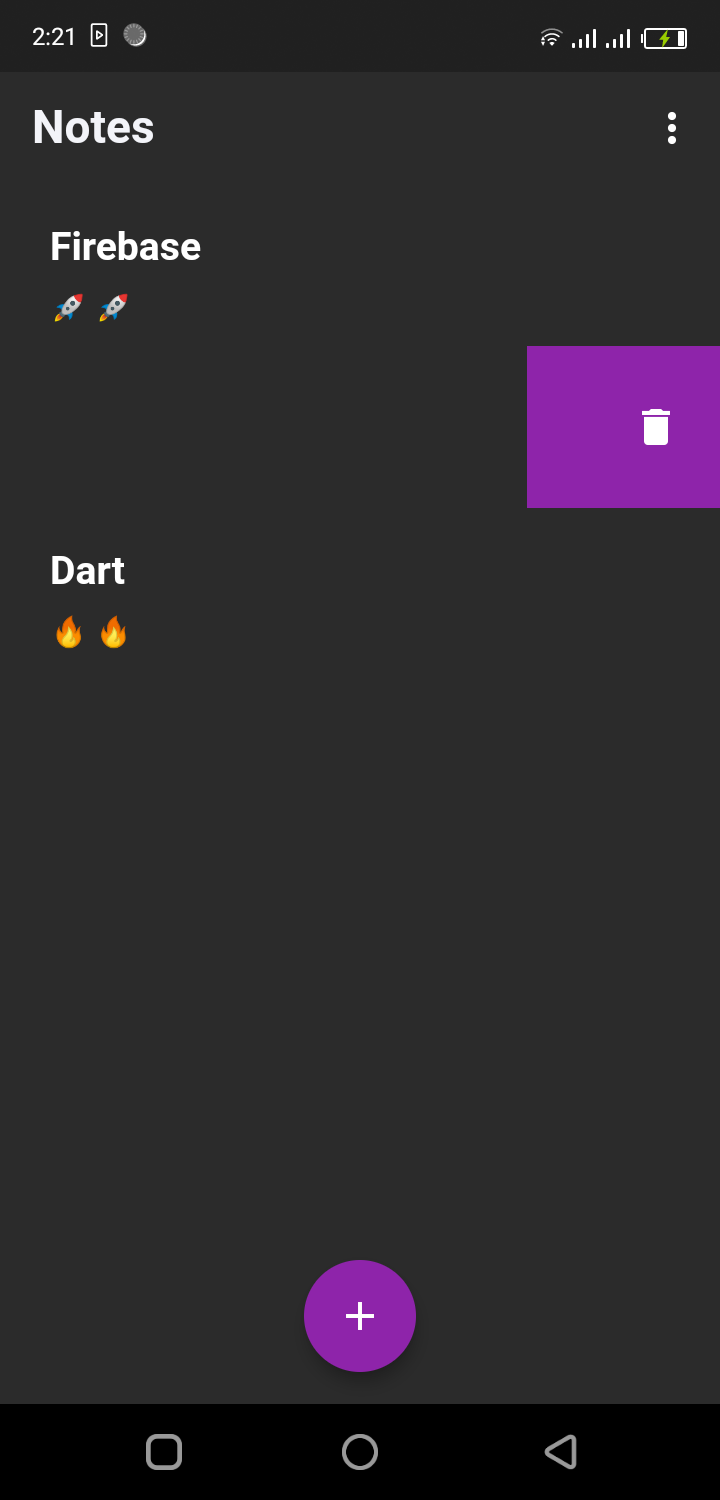
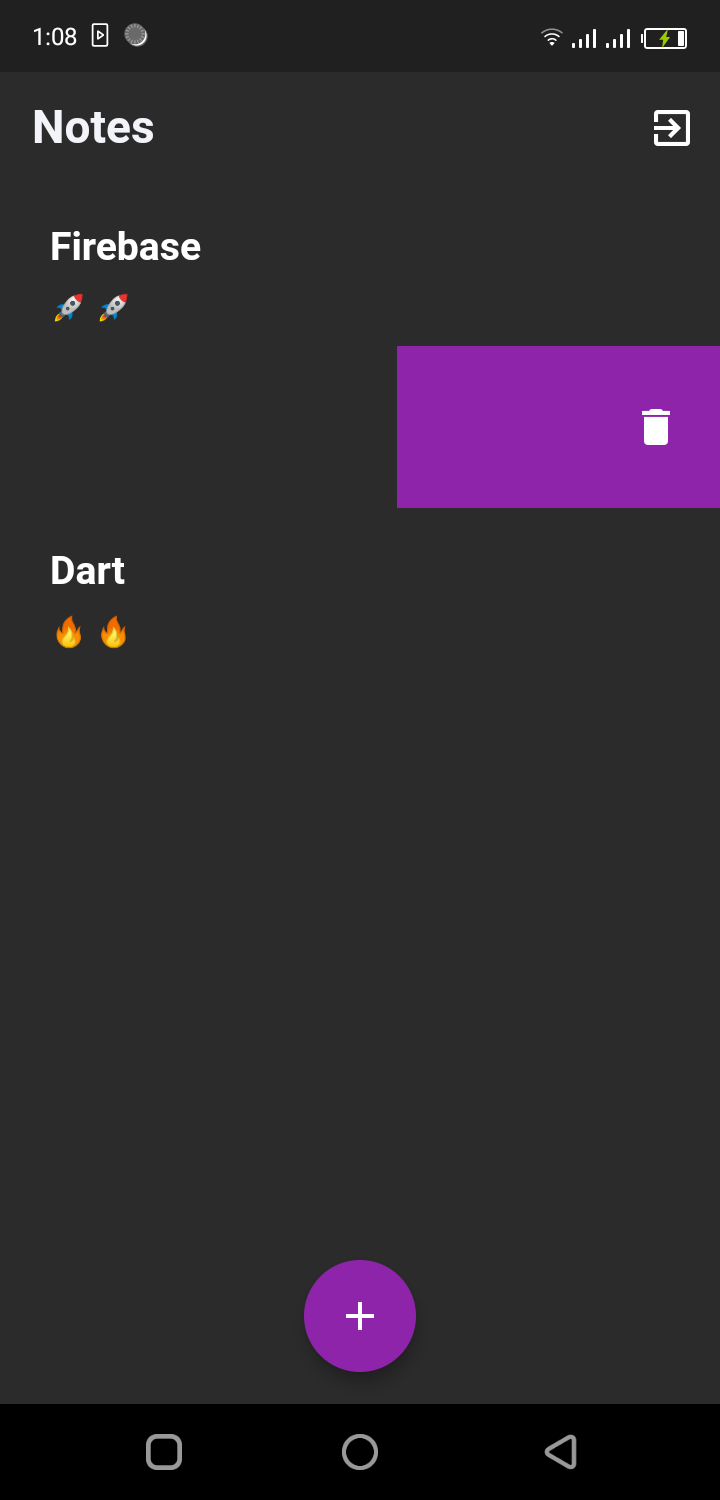
Bug Fixes

diff --git a/lib/screens/homescreen.dart b/lib/screens/homescreen.dart
@@ -5,6 +5,8 @@ import 'package:firebase_note_app/screens/note_screen.dart';
 import 'package:flutter/cupertino.dart';
 import 'package:flutter/material.dart';
 
+import 'loginscreen.dart';
+
 class HomeScreen extends StatefulWidget {
   @override
   _HomeScreenState createState() => _HomeScreenState();
@@ -47,8 +49,8 @@ class _HomeScreenState extends State<HomeScreen> {
         ),
         actions: <Widget>[
           IconButton(
-            onPressed: () {},
-            icon: Icon(Icons.more_vert),
+            onPressed: () => _signOut(),
+            icon: Icon(Icons.exit_to_app),
           ),
         ],
       ),
@@ -75,11 +77,16 @@ class _HomeScreenState extends State<HomeScreen> {
                                 child: Column(
                                   mainAxisAlignment: MainAxisAlignment.center,
                                   children: [
-                                    Text('No Notes'),
+                                    Text(
+                                      'No Notes',
+                                      style: TextStyle(letterSpacing: 0.5),
+                                    ),
                                     Align(
                                       alignment: Alignment.center,
-                                      child:
-                                          Text('Tap the purple to add a Note'),
+                                      child: Text(
+                                        'Tap the purple Button to add a Note',
+                                        style: TextStyle(letterSpacing: 0.1),
+                                      ),
                                     )
                                   ],
                                 ),
@@ -151,6 +158,16 @@ class _HomeScreenState extends State<HomeScreen> {
       child: Icon(
         Icons.delete,
         color: Colors.white,
+      ),
+    );
+  }
+
+  _signOut() async {
+    await _auth.signOut();
+    Navigator.push(
+      context,
+      MaterialPageRoute(
+        builder: (_) => LoginScreen(),
       ),
     );
   }
